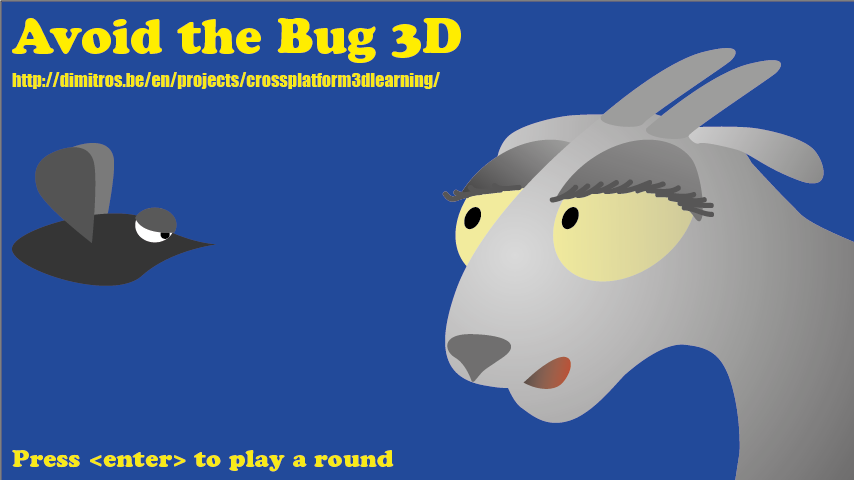
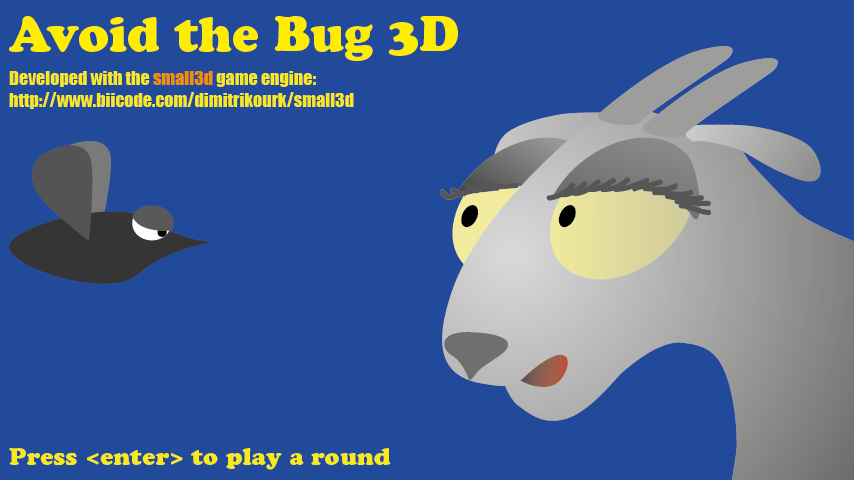
Modified splash screen and other details

diff --git a/README.md b/README.md
@@ -2,7 +2,7 @@ small3d
 =======
 *A small, no fuss, 3D game engine*
 
-[![biicode block](http://img.shields.io/badge/dimitrikourk%2Fsmall3d-BETA%3A%204-yellow.svg)](http://www.biicode.com/dimitrikourk/dimitrikourk/small3d/master/4) [![Build Status](https://travis-ci.org/dimitrikourk/small3d.svg?branch=master)](https://travis-ci.org/dimitrikourk/small3d)
+[![biicode block](http://img.shields.io/badge/dimitrikourk%2Fsmall3d-STABLE%3A%205-green.svg)](http://www.biicode.com/dimitrikourk/dimitrikourk/small3d/master/4) [![Build Status](https://travis-ci.org/dimitrikourk/small3d.svg?branch=master)](https://travis-ci.org/dimitrikourk/small3d)
 
 Quick start guide: http://goo.gl/5TYOv2
 
